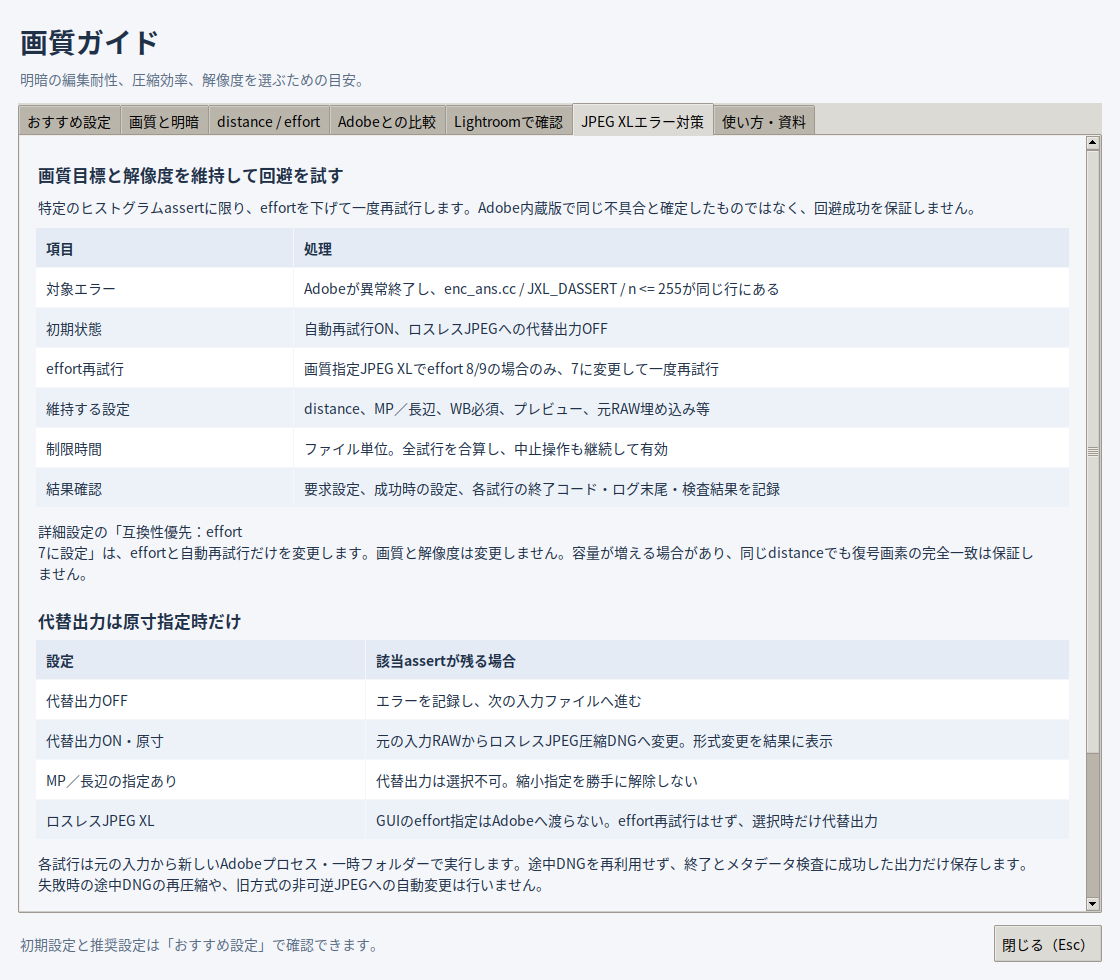
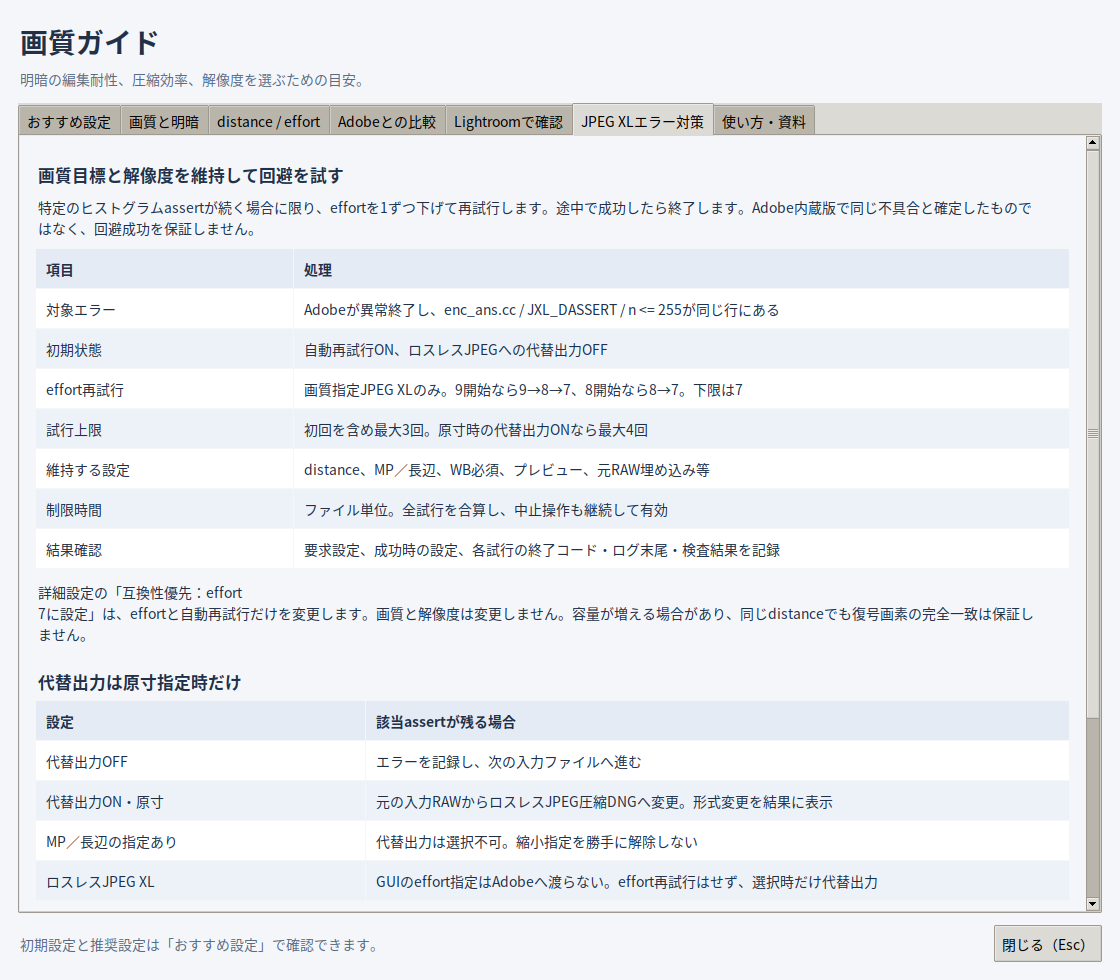
Fix JPEG XL retries to step through efforts 9, 8 and 7
Reduce effort by one only after the matching histogram assert, and stop on the first successful conversion. Preserve distance, output resolution and the shared timeout; keep effort 7 as the automatic lower bound and the existing opt-in lossless JPEG fallback.

Update GUI and CLI explanations, the offline guide, README and actual screenshots for v1.2.1. Verified with 33 simulated conversion/metadata tests and actual Tkinter interaction checks; real Adobe conversion remains unverified.

Changed region(s): [[0.0312, 0.1837, 0.9688, 0.9184], [0.9688, 0.7347, 1.0, 0.7653]]

diff --git a/tests/test_app.py b/tests/test_app.py
@@ -181,7 +181,8 @@ if jxl and source.stem.startswith('retryhang') and effort == 7:
 if jxl and source.stem.startswith('slowassert'):
     time.sleep(0.3)
 should_assert = jxl and (source.stem.startswith(('alwaysassert', 'slowassert')) or
-    source.stem.startswith(('highassert', 'retryhang', 'mutatingassert', 'missingafterassert', 'unrelatedafterassert')) and effort is not None and effort > 7)
+    source.stem.startswith(('effort8success', 'unrelatedafterassert')) and effort is not None and effort > 8 or
+    source.stem.startswith(('highassert', 'retryhang', 'mutatingassert', 'missingafterassert')) and effort is not None and effort > 7)
 if should_assert:
     dest.write_bytes(b'partial output from failed Adobe run')
     if source.stem.startswith('mutatingassert'):
@@ -238,22 +239,27 @@ make_dng(dest, width=w, height=h, compression=compression, linear=lossy or '-l' 
         return [json.loads(line) for line in job.source.path.with_suffix('.attempts.jsonl').read_text(encoding='utf-8').splitlines()]
 
     def test_assert_retry_preserves_distance_resolution_and_metadata(self):
-        for resolution in ({'megapixels': 24}, {'long_edge': 5000}):
-            with self.subTest(resolution=resolution):
-                settings = Settings(distance=0.2, effort=9, embed_original=True, **resolution)
-                job = self.jobs(['highassert' + next(iter(resolution)) + '.NEF'], settings)[0]
+        cases = [(effort, resolution) for effort in (8, 9)
+                 for resolution in ({'megapixels': 24}, {'long_edge': 5000})]
+        for effort, resolution in cases:
+            with self.subTest(effort=effort, resolution=resolution):
+                settings = Settings(distance=0.2, effort=effort, embed_original=True, **resolution)
+                job = self.jobs([f'highassert{effort}' + next(iter(resolution)) + '.NEF'], settings)[0]
                 source = job.source.path.read_bytes()
                 result = self.converter.convert(job)
+                expected_efforts = list(range(effort, 6, -1))
+                count = len(expected_efforts)
                 self.assertEqual(result.status, 'ok', result.message)
-                self.assertEqual([a.settings['effort'] for a in result.attempts], [9, 7])
-                self.assertEqual([a.exit_code for a in result.attempts], [7, 0])
-                self.assertEqual(result.requested_settings['effort'], 9)
+                self.assertEqual([a.settings['effort'] for a in result.attempts], expected_efforts)
+                self.assertEqual([a.exit_code for a in result.attempts], [7] * (count - 1) + [0])
+                self.assertEqual(result.requested_settings['effort'], effort)
                 self.assertEqual(result.effective_settings['effort'], 7)
-                self.assertIn('effort 9→7', result.message)
-                self.assertIn('JXL_DASSERT', result.attempts[0].log)
+                self.assertIn('effort ' + '→'.join(map(str, expected_efforts)), result.message)
+                for attempt in result.attempts[:-1]:
+                    self.assertIn('JXL_DASSERT', attempt.log)
                 history = self.history(job)
-                self.assertEqual(len({h['stage'] for h in history}), 2)
-                self.assertEqual(len({h['pid'] for h in history}), 2)
+                self.assertEqual(len({h['stage'] for h in history}), count)
+                self.assertEqual(len({h['pid'] for h in history}), count)
                 for h in history:
                     args = h['args']
                     self.assertEqual(args[args.index('-jxl_distance') + 1], '0.2')
@@ -265,6 +271,19 @@ make_dng(dest, width=w, height=h, compression=compression, linear=lossy or '-l' 
                 self.assertEqual(job.source.path.read_bytes(), source)
                 self.assertEqual(list(self.output.glob('.raw-to-dng-*')), [])
 
+    def test_retry_stops_at_effort8_success_before_effort7_or_fallback(self):
+        job = self.jobs(['effort8success.NEF'], Settings(effort=9, distance=0.2, jxl_fallback=True))[0]
+        retries = []
+        result = self.converter.convert(job, on_retry=retries.append)
+        self.assertEqual(result.status, 'ok', result.message)
+        self.assertEqual([a.settings['effort'] for a in result.attempts], [9, 8])
+        self.assertEqual(len(self.history(job)), 2)
+        self.assertEqual(result.effective_settings['mode'], 'lossy-jxl')
+        self.assertEqual(result.effective_settings['effort'], 8)
+        self.assertEqual(result.effective_settings['distance'], 0.2)
+        self.assertIn('effort 9→8', result.message)
+        self.assertEqual([r['settings']['effort'] for r in retries], [8])
+
     def test_retry_is_opt_out_and_does_not_repeat_effort7(self):
         for effort, enabled in ((9, False), (7, True), (5, True)):
             with self.subTest(effort=effort, enabled=enabled):
@@ -274,11 +293,12 @@ make_dng(dest, width=w, height=h, compression=compression, linear=lossy or '-l' 
                 self.assertEqual(len(self.history(job)), 1)
                 self.assertFalse(job.destination.exists())
 
-    def test_matching_assert_stops_after_one_effort_retry(self):
+    def test_matching_assert_stops_at_effort7(self):
         job = self.jobs(['alwaysassert.NEF'], Settings(effort=9))[0]
         result = self.converter.convert(job)
         self.assertEqual(result.status, 'error')
-        self.assertEqual(len(self.history(job)), 2)
+        self.assertEqual(len(self.history(job)), 3)
+        self.assertEqual([a.settings['effort'] for a in result.attempts], [9, 8, 7])
         self.assertIsNone(result.effective_settings)
         self.assertFalse(job.destination.exists())
         self.assertEqual(list(self.output.glob('.raw-to-dng-*')), [])
@@ -297,7 +317,8 @@ make_dng(dest, width=w, height=h, compression=compression, linear=lossy or '-l' 
         source = job.source.path.read_bytes()
         result = self.converter.convert(job)
         self.assertEqual(result.status, 'ok', result.message)
-        self.assertEqual([a.settings['mode'] for a in result.attempts], ['lossy-jxl', 'lossy-jxl', 'lossless-jpeg'])
+        self.assertEqual([a.settings['mode'] for a in result.attempts], ['lossy-jxl'] * 3 + ['lossless-jpeg'])
+        self.assertEqual([a.settings['adobe_jxl_effort'] for a in result.attempts], [9, 8, 7, None])
         self.assertEqual(result.dng['compression'], 7)
         self.assertEqual(result.dng['width'] * result.dng['height'], 42000000)
         self.assertEqual(result.effective_settings['mode'], 'lossless-jpeg')
@@ -320,7 +341,7 @@ make_dng(dest, width=w, height=h, compression=compression, linear=lossy or '-l' 
         job = self.jobs(['missingafterassert.NEF'], Settings(effort=9))[0]
         result = self.converter.convert(job)
         self.assertEqual(result.status, 'error')
-        self.assertEqual(len(self.history(job)), 2)
+        self.assertEqual(len(self.history(job)), 3)
         self.assertIn('DNGを生成しませんでした', result.message)
         self.assertFalse(job.destination.exists())
 
@@ -329,6 +350,8 @@ make_dng(dest, width=w, height=h, compression=compression, linear=lossy or '-l' 
         result = self.converter.convert(job)
         self.assertEqual(result.status, 'error')
         self.assertEqual(len(self.history(job)), 2)
+        self.assertEqual([a.settings['effort'] for a in result.attempts], [9, 8])
+        self.assertIn('unsupported RAW', result.message)
         self.assertFalse(job.destination.exists())
 
     def test_changed_source_is_rejected_before_retry_process(self):
@@ -352,18 +375,18 @@ make_dng(dest, width=w, height=h, compression=compression, linear=lossy or '-l' 
     def test_cancel_during_retry_terminates_process_and_preserves_pending_jobs(self):
         jobs = self.jobs(['retryhang.NEF', 'pending.NEF'], Settings(effort=9))
         cancel = threading.Event()
-        def stop_second_process():
+        def stop_hanging_retry():
             deadline = time.monotonic() + 5
             while time.monotonic() < deadline:
                 try:
-                    if len(self.history(jobs[0])) >= 2:
+                    if len(self.history(jobs[0])) >= 3:
                         break
                 except (OSError, ValueError):
                     pass
                 if cancel.wait(0.02):
                     return
             cancel.set()
-        stopper = threading.Thread(target=stop_second_process, daemon=True)
+        stopper = threading.Thread(target=stop_hanging_retry, daemon=True)
         stopper.start()
         try:
             results, report = run_batch(self.converter, jobs, self.output, cancel)
@@ -371,7 +394,7 @@ make_dng(dest, width=w, height=h, compression=compression, linear=lossy or '-l' 
             cancel.set()
             stopper.join(timeout=2)
         self.assertEqual([r.status for r in results], ['cancelled'])
-        self.assertEqual(len(self.history(jobs[0])), 2)
+        self.assertEqual(len(self.history(jobs[0])), 3)
         self.assertFalse(any(job.destination.exists() for job in jobs))
         self.assertEqual(json.loads(report.read_text(encoding='utf-8').splitlines()[-1])['pending'], 1)
         self.assertEqual(list(self.output.glob('.raw-to-dng-*')), [])
@@ -382,15 +405,16 @@ make_dng(dest, width=w, height=h, compression=compression, linear=lossy or '-l' 
         results, report = run_batch(self.converter, jobs, self.output, on_event=lambda kind, data: events.append((kind, data)))
         self.assertEqual([r.status for r in results], ['ok', 'ok'])
         retries = [data for kind, data in events if kind == 'retry']
-        self.assertEqual(len(retries), 1)
-        self.assertEqual(retries[0]['index'], 0)
-        self.assertEqual(retries[0]['settings']['effort'], 7)
+        self.assertEqual([r['index'] for r in retries], [0, 0])
+        self.assertEqual([r['settings']['effort'] for r in retries], [8, 7])
+        self.assertEqual([r['attempt'] for r in retries], [2, 3])
+        self.assertEqual([r['message'] for r in retries], ['effort 9→8で再試行', 'effort 8→7で再試行'])
         records = [json.loads(line) for line in report.read_text(encoding='utf-8').splitlines()]
         first = records[1]
         self.assertEqual(first['settings']['effort'], 9)
         self.assertEqual(first['requested_settings']['effort'], 9)
         self.assertEqual(first['effective_settings']['effort'], 7)
-        self.assertEqual(len(first['attempts']), 2)
+        self.assertEqual(len(first['attempts']), 3)
         self.assertEqual(records[-1]['ok'], 2)
 
     def test_42mp_to_24mp_pipeline_and_raw_metadata(self):

diff --git a/raw_to_dng/core.py b/raw_to_dng/core.py
@@ -510,7 +510,8 @@ class Converter:
                     if settings.mode != job.settings.mode:
                         result.message += " / JPEG XL失敗 → ロスレスJPEGで成功（原寸）"
                     elif settings.effort != job.settings.effort:
-                        result.message += f" / effort {job.settings.effort}→{settings.effort}で再試行成功"
+                        efforts = "→".join(str(a.settings["effort"]) for a in result.attempts)
+                        result.message += f" / effort {efforts}で再試行成功"
                 attempt.status, attempt.message = result.status, result.message
         except Cancelled as exc:
             attempt.status, attempt.message = "cancelled", str(exc)
@@ -544,9 +545,9 @@ class Converter:
                 return result
             job.destination.parent.mkdir(parents=True, exist_ok=True)
             reason = "初回"
-            # At most: requested effort -> effort 7 -> opt-in lossless JPEG.
+            # At most: effort 9 -> 8 -> 7 -> opt-in lossless JPEG.
             # Effort 5 remains a manual experiment, not a verified workaround.
-            for _ in range(3):
+            for _ in range(4):
                 try:
                     self._attempt(job, settings, cancel, started, source_stat, result, reason)
                     break
@@ -554,8 +555,9 @@ class Converter:
                     if settings.mode not in (Mode.LOSSY_JXL, Mode.LOSSLESS_JXL) or not is_jxl_histogram_assert(exc.output):
                         raise
                     if settings.mode == Mode.LOSSY_JXL and settings.jxl_retry and settings.effort > 7:
-                        reason = f"effort {settings.effort}→7で再試行"
-                        settings = replace(settings, effort=7)
+                        next_effort = settings.effort - 1
+                        reason = f"effort {settings.effort}→{next_effort}で再試行"
+                        settings = replace(settings, effort=next_effort)
                     elif settings.jxl_fallback:
                         reason = "ロスレスJPEGへ変更（原寸）"
                         settings = replace(settings, mode=Mode.LOSSLESS_JPEG, jxl_retry=False, jxl_fallback=False)

diff --git a/scripts/capture_screenshots.py b/scripts/capture_screenshots.py
@@ -102,11 +102,13 @@ def main() -> int:
                 app.notebook.select(0)
 
                 app.result_tree.insert('', 'end', iid='0', values=('sample.NEF', '変換中', '', '', '', ''))
-                app.events.put(('retry', {'index': 0, 'source': 'sample.NEF', 'message': 'effort 9→7で再試行'}))
-                app._poll()
-                assert app.result_tree.set('0', 'state') == '再試行中', 'Retry progress was not shown'
+                for message in ('effort 9→8で再試行', 'effort 8→7で再試行'):
+                    app.events.put(('retry', {'index': 0, 'source': 'sample.NEF', 'message': message}))
+                    app._poll()
+                    assert app.result_tree.set('0', 'state') == '再試行中', 'Retry progress was not shown'
+                    assert message in app.status.get(), 'Current effort step was not shown'
                 app.events.put(('result', {'index': 0, 'source': 'sample.NEF', 'status': 'ok',
-                                          'message': 'effort 9→7で再試行成功', 'attempts': [{}, {}]}))
+                                          'message': 'effort 9→8→7で再試行成功', 'attempts': [{}, {}, {}]}))
                 app._poll()
                 assert app.result_tree.set('0', 'state') == '完了（再試行）', 'Retry completion was not shown'
                 app.result_tree.delete('0')
@@ -173,7 +175,7 @@ def main() -> int:
                     "checks": ["F1", "all pages", "wheel scrolling", "window reuse", "reopen", "Escape",
                                "help entry", "available while busy", "conversion settings unchanged", "no user preferences changed"],
                     "recovery_checks": ["effort 7 preset", "fallback disabled and cleared for resize", "lossless JXL effort disabled",
-                                        "preferences save and restore", "controls disabled while busy", "retry progress", "retry completion"],
+                                        "preferences save and restore", "controls disabled while busy", "stepwise retry progress", "retry completion"],
                     "adobe_conversion_run": False,
                 }, ensure_ascii=False, indent=2))
             finally:

diff --git a/raw_to_dng/help_content.py b/raw_to_dng/help_content.py
@@ -144,11 +144,12 @@ HELP_PAGES = (
     )),
     HelpPage("recovery", "JPEG XLエラー対策", (
         Paragraph("画質目標と解像度を維持して回避を試す", heading=True),
-        Paragraph("特定のヒストグラムassertに限り、effortを下げて一度再試行します。Adobe内蔵版で同じ不具合と確定したものではなく、回避成功を保証しません。"),
+        Paragraph("特定のヒストグラムassertが続く場合に限り、effortを1ずつ下げて再試行します。途中で成功したら終了します。Adobe内蔵版で同じ不具合と確定したものではなく、回避成功を保証しません。"),
         Table(("項目", "処理"), (
             ("対象エラー", "Adobeが異常終了し、enc_ans.cc / JXL_DASSERT / n <= 255が同じ行にある"),
             ("初期状態", "自動再試行ON、ロスレスJPEGへの代替出力OFF"),
-            ("effort再試行", "画質指定JPEG XLでeffort 8/9の場合のみ、7に変更して一度再試行"),
+            ("effort再試行", "画質指定JPEG XLのみ。9開始なら9→8→7、8開始なら8→7。下限は7"),
+            ("試行上限", "初回を含め最大3回。原寸時の代替出力ONなら最大4回"),
             ("維持する設定", "distance、MP／長辺、WB必須、プレビュー、元RAW埋め込み等"),
             ("制限時間", "ファイル単位。全試行を合算し、中止操作も継続して有効"),
             ("結果確認", "要求設定、成功時の設定、各試行の終了コード・ログ末尾・検査結果を記録"),

diff --git a/raw_to_dng/cli.py b/raw_to_dng/cli.py
@@ -25,7 +25,7 @@ def _common(parser: argparse.ArgumentParser) -> None:
     parser.add_argument("--mode", choices=[mode.value for mode in Mode], default=Mode.LOSSY_JXL.value)
     parser.add_argument("--distance", type=float, default=0.1, help="JPEG XL画質: 0〜6、小さいほど高画質")
     parser.add_argument("--effort", type=int, default=7)
-    parser.add_argument("--no-jxl-retry", action="store_true", help="該当assert時のeffort 8/9→7再試行を無効化")
+    parser.add_argument("--no-jxl-retry", action="store_true", help="該当assert時のeffort段階再試行（9→8→7）を無効化")
     parser.add_argument("--jxl-fallback", action="store_true", help="該当assert時にロスレスJPEGへ変更（原寸指定時のみ）")
     resolution = parser.add_mutually_exclusive_group()
     resolution.add_argument("--megapixels", "--mp", type=float, help="上限MP。24は2400万画素")

diff --git a/raw_to_dng/gui.py b/raw_to_dng/gui.py
@@ -246,7 +246,7 @@ class Application:
 
         recovery = ttk.LabelFrame(advanced, text="JPEG XLのエラー対策", padding=8)
         recovery.grid(row=8, column=0, columnspan=3, sticky="ew", pady=(8, 0))
-        self.jxl_retry_widget = self._check(recovery, "該当するassert時、effort 8/9から7へ一度再試行（画質設定・解像度は維持）", self.jxl_retry)
+        self.jxl_retry_widget = self._check(recovery, "該当するassert時、effortを1ずつ下げて再試行（9→8→7。画質設定・解像度は維持）", self.jxl_retry)
         self.jxl_retry_widget.grid(row=0, column=0, columnspan=2, sticky="w", pady=3)
         self.jxl_fallback_widget = self._check(recovery, "該当assertで失敗したら、ロスレスJPEG圧縮DNGへ変更（原寸指定時のみ）", self.jxl_fallback)
         self.jxl_fallback_widget.grid(row=1, column=0, columnspan=2, sticky="w", pady=3)

diff --git a/raw_to_dng/__init__.py b/raw_to_dng/__init__.py
@@ -1,3 +1,3 @@
 """DngConverterEx: an Adobe DNG Converter front end."""
 
-__version__ = "1.2.0"
+__version__ = "1.2.1"

diff --git a/README.md b/README.md
@@ -17,12 +17,12 @@ Adobe DNG Converterは、PhotoshopのAdobe Camera Rawプラグインとは別の
 - プレビュー、Fast Load Data、元RAW埋め込み、名前・同名処理の設定。
 - 複数のdistanceを比較するDNGを別フォルダーに出力。
 - 元RAWの保護、中止・タイムアウト、失敗後の継続、結果レポート。
-- 特定のJPEG XL assert時、画質・解像度を維持してeffort 7へ限定再試行。原寸時だけ選択式の代替出力。
+- 特定のJPEG XL assert時、画質・解像度を維持してeffortを1ずつ下げ、7まで再試行。原寸時だけ選択式の代替出力。
 - **「画質ガイド / F1」から、明暗の編集耐性や設定の意味をオフラインで確認。**
 
 | 動作条件 | 内容 |
 |---|---|
-| アプリ | 1.2.0 / Python 3.10以降、Tkinter |
+| アプリ | 1.2.1 / Python 3.10以降、Tkinter |
 | 変換を行うOS | Windows / macOS |
 | JPEG XL変換の動作対象 | Adobe DNG Converter 16以降 |
 | JPEG XL編集の動作対象 | Lightroom Classic 13以降 / Camera Raw 16以降 |
@@ -218,12 +218,13 @@ distanceと出力解像度を変えず、圧縮効率の設定だけを下げて
 | 項目 | 動作 |
 |---|---|
 | 対象 | Adobeの異常終了と、同じ行の `enc_ans.cc`・`JXL_DASSERT`・`n <= 255` が一致 |
-| 自動再試行 | 画質指定JPEG XLのeffort 8/9から7へ一度だけ変更 |
+| 自動再試行 | 画質指定JPEG XLのみ。対象assertが続く場合に1ずつ下げ、成功した時点で終了 |
+| 再試行順 | 9開始：9→8→7。8開始：8→7。下限は7 |
 | 互換性優先ボタン | effortを7、自動再試行をONに設定。画質・解像度は変更しない |
 | 代替出力 | 選択した場合だけ、該当assertが残る入力を元RAWからロスレスJPEG圧縮DNGへ変更 |
 | 縮小指定あり | 代替出力は選択不可。指定MP／長辺を勝手に解除しない |
 | ロスレスJPEG XL | GUIのeffort値は渡らないためeffort再試行なし。選択した場合だけ代替出力 |
-| 試行上限 | 初回＋effort再試行＋選択式の代替出力で最大3回。制限時間は全試行の合計 |
+| 試行上限 | 初回＋effort再試行で最大3回。原寸時の選択式代替出力を含め最大4回。制限時間は全試行の合計 |
 | 結果・レポート | 要求設定、成功時の設定、各試行のコマンド・終了コード・ログ末尾（最大16,000バイト相当）を記録 |
 
 各試行には別のAdobeプロセスと一時出力フォルダーを使います。失敗時の途中DNGは採用せず、出力検査に成功してから保存します。
@@ -310,7 +311,7 @@ python -m unittest discover -s tests -v
 | GUI表示・画質ガイドの開閉と各ページ・スクロール | Linux仮想ディスプレイで確認 |
 | Windows / macOS実行・EXEビルド | 未検証 |
 
-32件のテストが通過しています。合成DNGの圧縮ペイロードはダミーで、画像の正しさを検証するテストではありません。
+33件のテストが通過しています。合成DNGの圧縮ペイロードはダミーで、画像の正しさを検証するテストではありません。
 実機検証が残るため、全機種・Lightroom互換・実画質を検証済みとは扱っていません。
 
 検証の詳細は[VALIDATION.json](VALIDATION.json)、開発・スクリーンショット再生成は[CONTRIBUTING.md](CONTRIBUTING.md)、変更点は[CHANGELOG.md](CHANGELOG.md)を参照してください。

diff --git a/CHANGELOG.md b/CHANGELOG.md
@@ -1,5 +1,11 @@
 # Changelog
 
+## 1.2.1
+
+- 対象のJPEG XL assertが続く場合、effortを1ずつ下げて再試行するよう変更しました。9開始は9→8→7、8開始は8→7で、成功した時点で終了します。
+- distance・出力解像度・共有制限時間は維持します。原寸時の選択式代替出力を含め、最大4回です。
+- GUI・CLI・画質ガイド・README・スクリーンショットを更新し、effort 8で成功した場合に停止する回帰テストを追加しました。
+
 ## 1.2.0
 
 - 特定のJPEG XLヒストグラムassert時、effort 8/9から7へ一度再試行。distanceと出力解像度は維持します。
